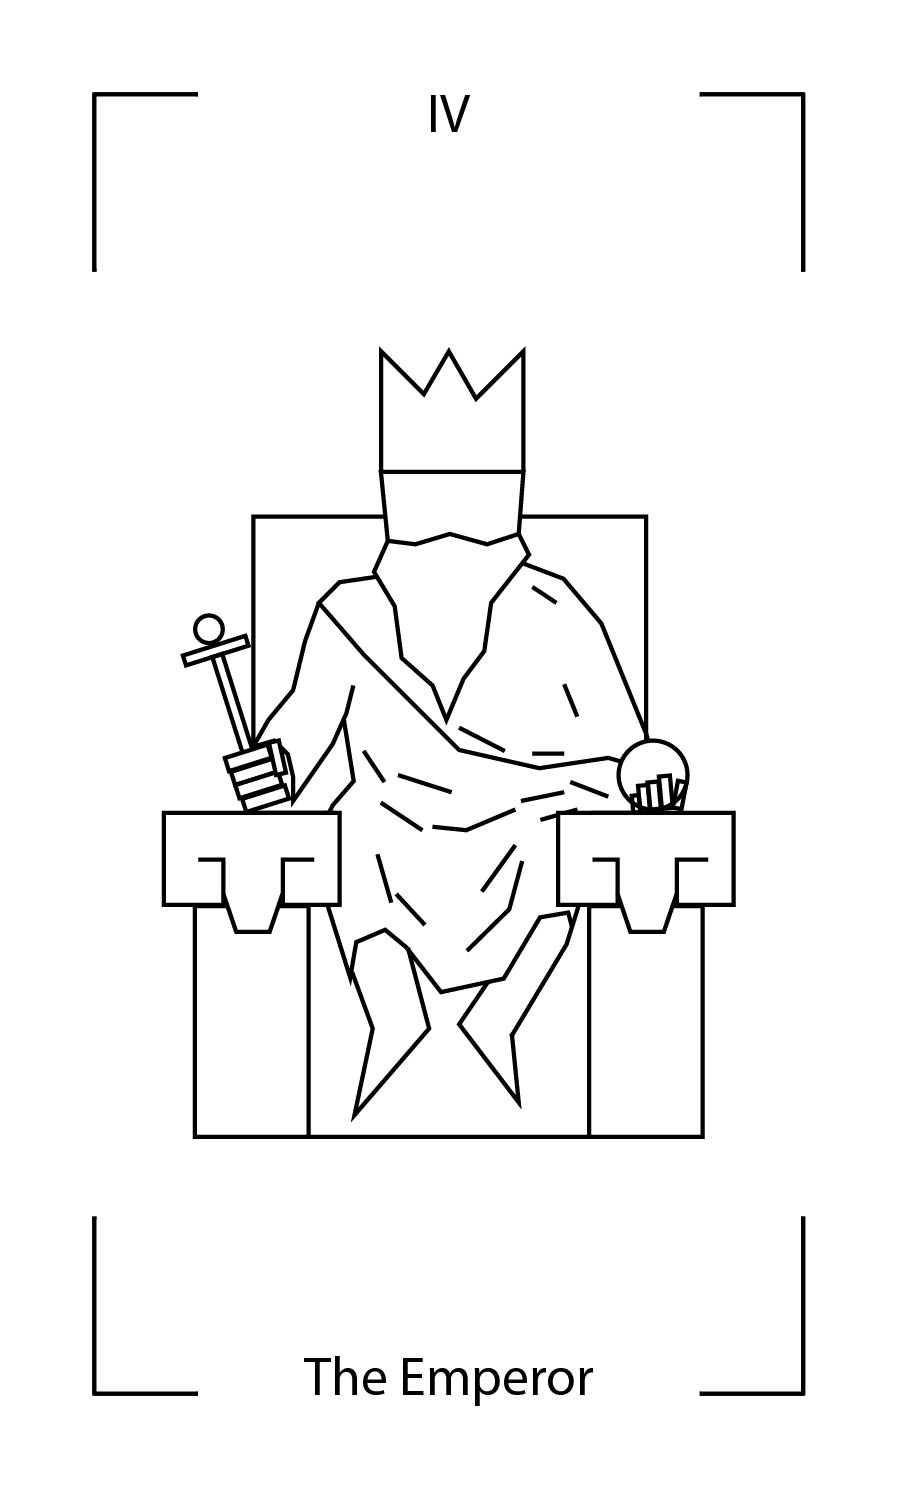
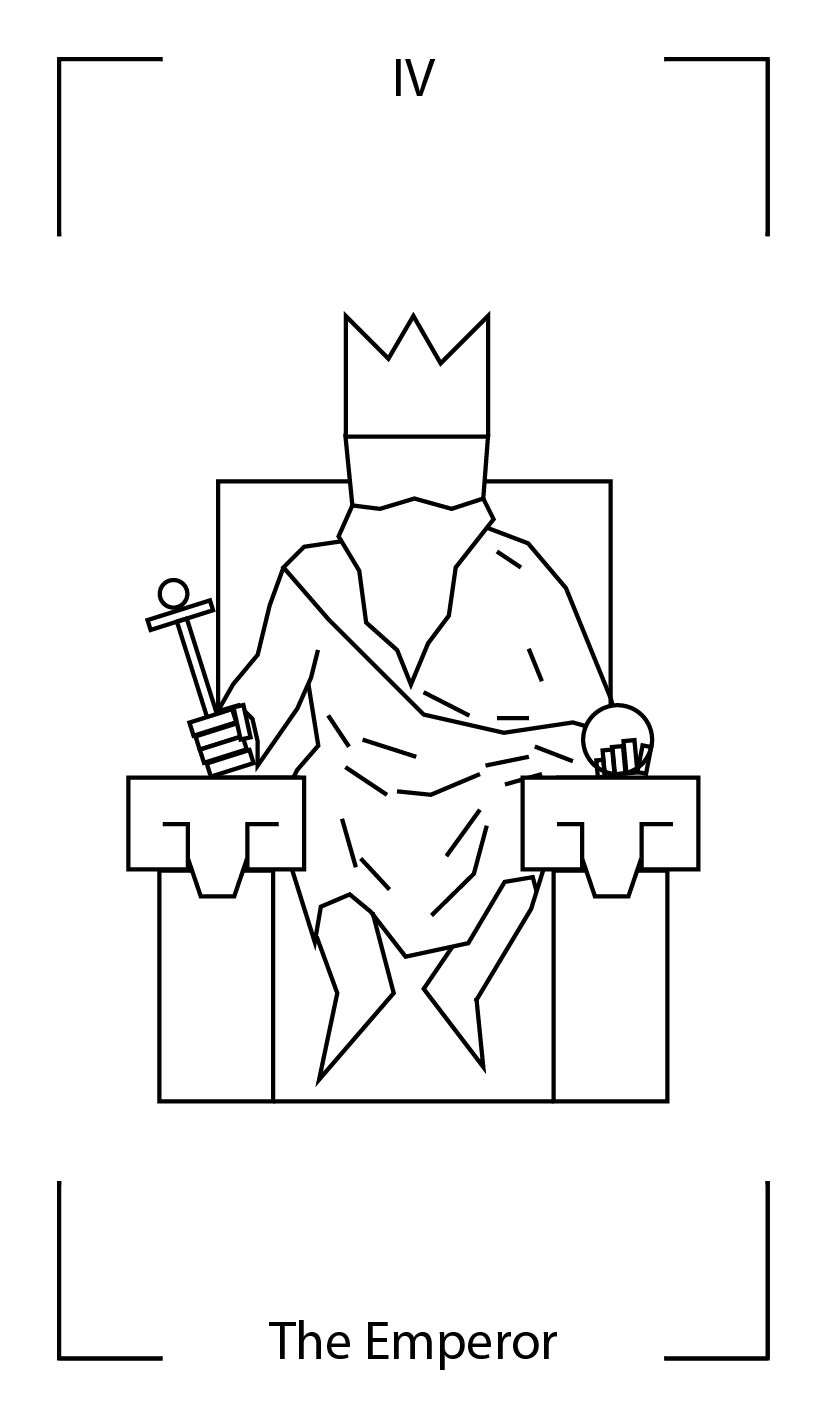
all art correctly sized

diff --git a/src/App.js b/src/App.js
@@ -16,14 +16,14 @@ function App() {
   }
 
   return (
-    <div className="App">
+    <div className="maindiv">
       <header className="App-header">
       </header>
       <button onClick={randomizeTarot} class="readingbutton"> Generate </button>
       <p>{tarotNum}</p>
       <p>{tarotData[tarotNum].name}</p>
-      {/* <img src={`/images/${tarotID}`} alt="tarot card"></img> */}
       <img class="tarotImage" src={`/images/${tarotNum}.jpg`}></img>
+      <img class="tarotBackImage" src='images/card-back.jpg' />
     </div>
   );
 }

diff --git a/src/index.css b/src/index.css
@@ -12,16 +12,25 @@ code {
     monospace;
 }
 
+.maindiv{
+  background-color: grey;
+  height: 600px;
+}
+
 .tarotImage{
-  width:300px;
+  width: 200px;
   display:block;
   justify-content: center;
   margin: 10px 10px 10px 10px;
+  float: left;
 }
 
-/* .App{
-  width: 100%;
-  height: 100%;
-  background-color: black;
-} */
+.tarotBackImage{
+  width: 200px;
+  float:left;
+  display: block;
+  margin: 10px;
+}
+
+
 
